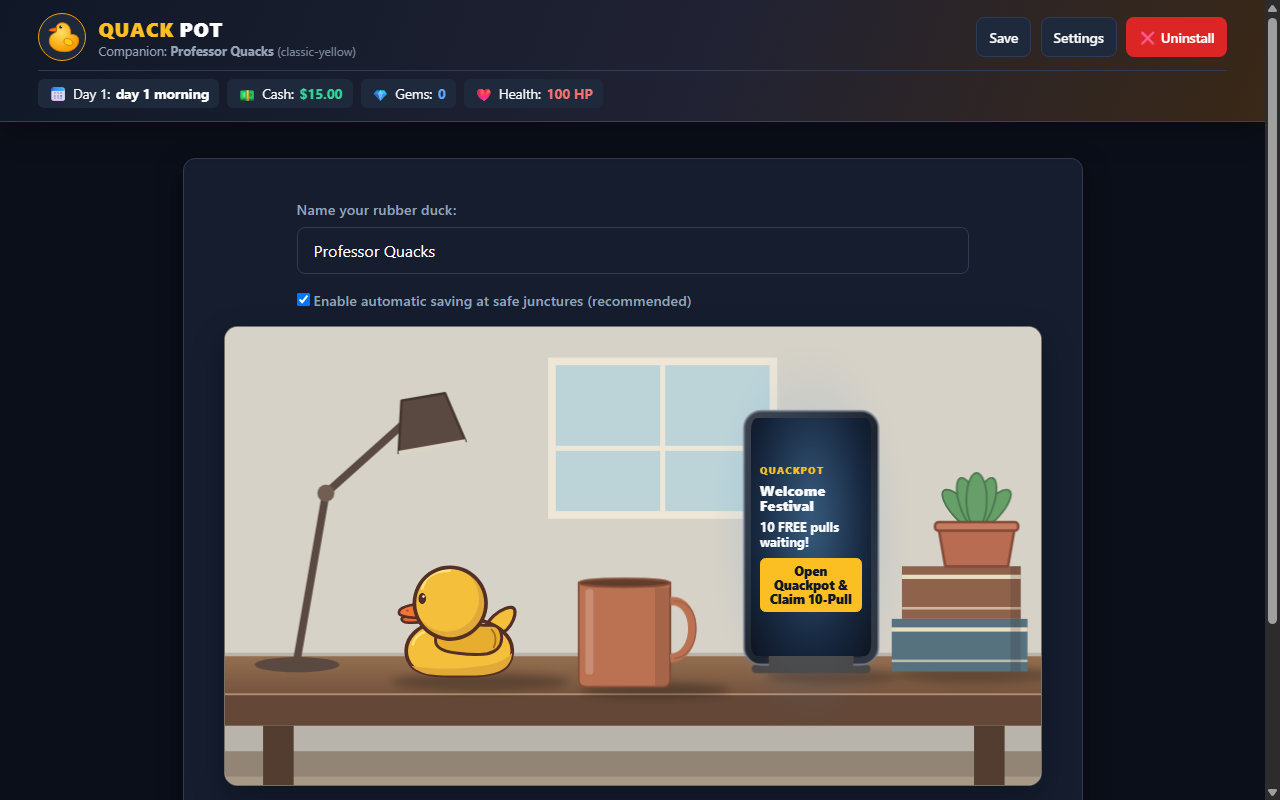
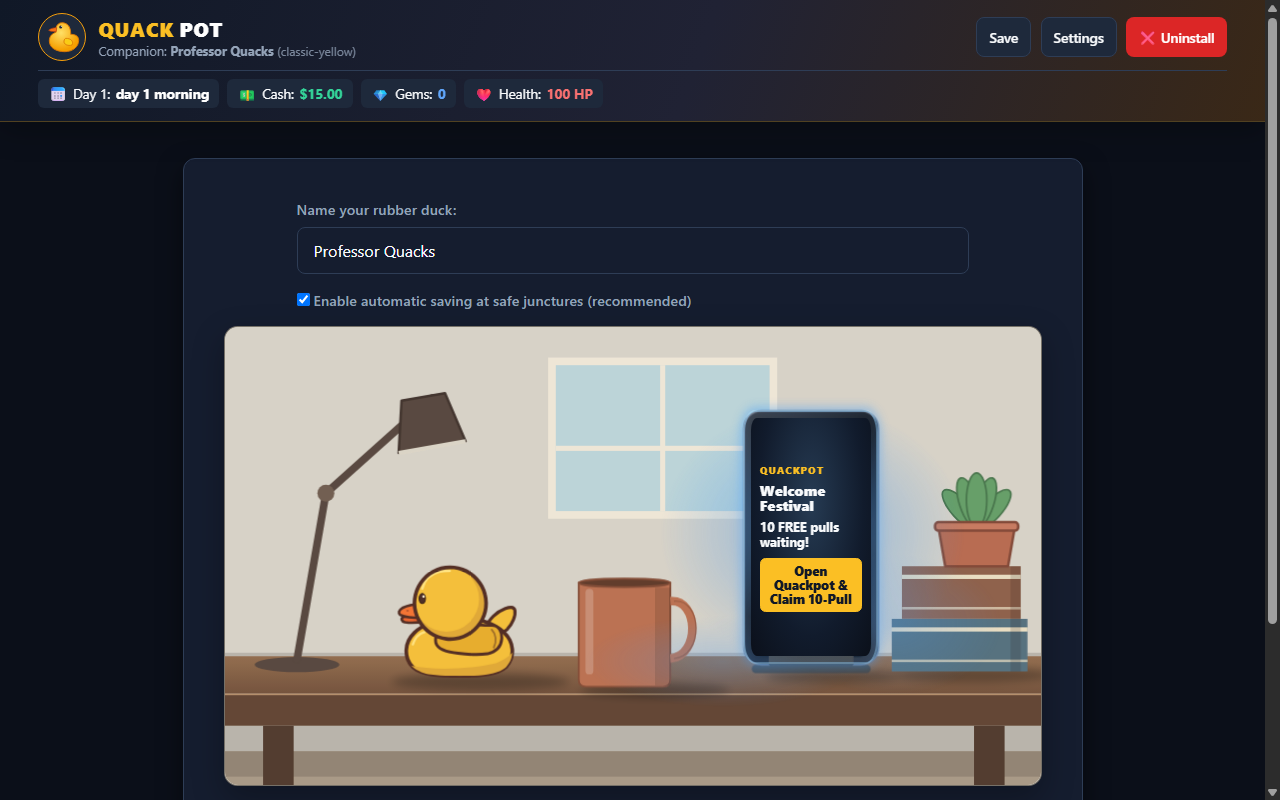
Add scene-anchored phone light spill

Changed region(s): [[0.5, 0.5, 0.75, 0.875]]

diff --git a/src/ui/apartment-view.css b/src/ui/apartment-view.css
@@ -10,7 +10,14 @@
   box-shadow: 0 .8rem 2rem rgba(0, 0, 0, .28);
 }
 
-.apartment-desk-scene > svg { display: block; width: 100%; height: 100%; }
+.apartment-art-frame {
+  position: absolute;
+  inset: 0;
+  overflow: hidden;
+  border-radius: inherit;
+}
+
+.apartment-art-frame > svg { display: block; width: 100%; height: 100%; }
 
 .apartment-phone-content {
   position: absolute;
@@ -34,14 +41,31 @@
 
 .apartment-phone-glow {
   position: absolute;
-  z-index: 0;
-  inset: -30%;
+  z-index: 1;
+  inset: 0;
   pointer-events: none;
-  opacity: .16;
-  background: radial-gradient(ellipse at 50% 50%, rgba(110, 190, 255, .72) 0%, rgba(73, 143, 219, .32) 42%, rgba(73, 143, 219, 0) 74%);
+  opacity: .28;
+  background:
+    radial-gradient(ellipse 24% 36% at 72% 45%, rgba(91, 177, 255, .75) 0%, rgba(64, 149, 238, .42) 38%, rgba(52, 133, 225, 0) 78%),
+    radial-gradient(ellipse 22% 13% at 61% 73%, rgba(77, 155, 242, .48) 0%, rgba(63, 140, 229, 0) 77%),
+    radial-gradient(ellipse 17% 20% at 82% 65%, rgba(77, 155, 242, .42) 0%, rgba(63, 140, 229, 0) 78%);
 }
 
-.apartment-phone-content > :not(.apartment-phone-glow) { position: relative; z-index: 1; }
+.apartment-phone-glow::before {
+  content: "";
+  position: absolute;
+  left: 63.6%;
+  top: 18.3%;
+  width: 16.5%;
+  height: 55.4%;
+  box-sizing: border-box;
+  border: 2px solid rgba(136, 202, 255, .78);
+  border-radius: 9%;
+  box-shadow: 0 0 10px 3px rgba(67, 157, 248, .72), inset 0 0 8px rgba(75, 161, 255, .22);
+}
+
+.apartment-phone-content { z-index: 2; }
+.apartment-phone-content > * { position: relative; z-index: 1; }
 
 .apartment-phone-brand { color: #fbbf24; font-size: .625rem; font-weight: 900; letter-spacing: .1em; }
 .apartment-phone-heading { margin: 0; font-size: .9rem; line-height: 1.05; font-weight: 800; }
@@ -69,9 +93,8 @@
 
 @media (max-width: 720px) {
   .apartment-desk-scene { width: 100%; aspect-ratio: auto; overflow: visible; border-radius: .5rem; }
-  .apartment-desk-scene > svg { height: auto; aspect-ratio: 16 / 9; }
+  .apartment-art-frame { position: relative; inset: auto; width: 100%; aspect-ratio: 16 / 9; border-radius: .5rem; }
   .apartment-phone-content { position: relative; inset: auto; width: auto; height: auto; min-height: 8rem; margin: .5rem; padding: .8rem; border: 1px solid #707784; border-radius: .75rem; gap: .4rem; }
-  .apartment-phone-glow { inset: 0; }
   .apartment-phone-brand { font-size: .7rem; letter-spacing: .08em; }
   .apartment-phone-heading { font-size: 1rem; }
   .apartment-phone-message { font-size: .9rem; }
@@ -80,7 +103,7 @@
 
 @media (max-width: 360px) {
   .apartment-desk-scene { overflow: visible; aspect-ratio: auto; border: 0; box-shadow: none; }
-  .apartment-desk-scene > svg { height: auto; aspect-ratio: 16 / 9; }
+  .apartment-art-frame { aspect-ratio: 16 / 9; }
   .apartment-phone-content { position: relative; inset: auto; width: auto; height: auto; min-height: 7rem; margin: .5rem; padding: .75rem; border: 1px solid #707784; border-radius: .75rem; }
   .apartment-phone-action { min-height: 2.75rem; font-size: .9rem; }
 }

diff --git a/src/ui/desk-view.js b/src/ui/desk-view.js
@@ -26,9 +26,11 @@ export function renderDeskView(container, _duckSvgUrl, onStartApp, options = {})
           </div>`}
         </form>
         <div class="apartment-desk-scene" aria-label="Apartment desk with your still rubber duck and phone">
-          ${presentation.scene}
+          <div class="apartment-art-frame">
+            ${presentation.scene}
+            <div class="apartment-phone-glow" aria-hidden="true"></div>
+          </div>
           <div class="apartment-phone-content" aria-label="Phone invitation">
-            <span class="apartment-phone-glow" aria-hidden="true"></span>
             <span class="apartment-phone-brand" aria-hidden="true">QUACKPOT</span>
             <h2 class="apartment-phone-heading">${heading}</h2>
             <p class="apartment-phone-message">${message}</p>
